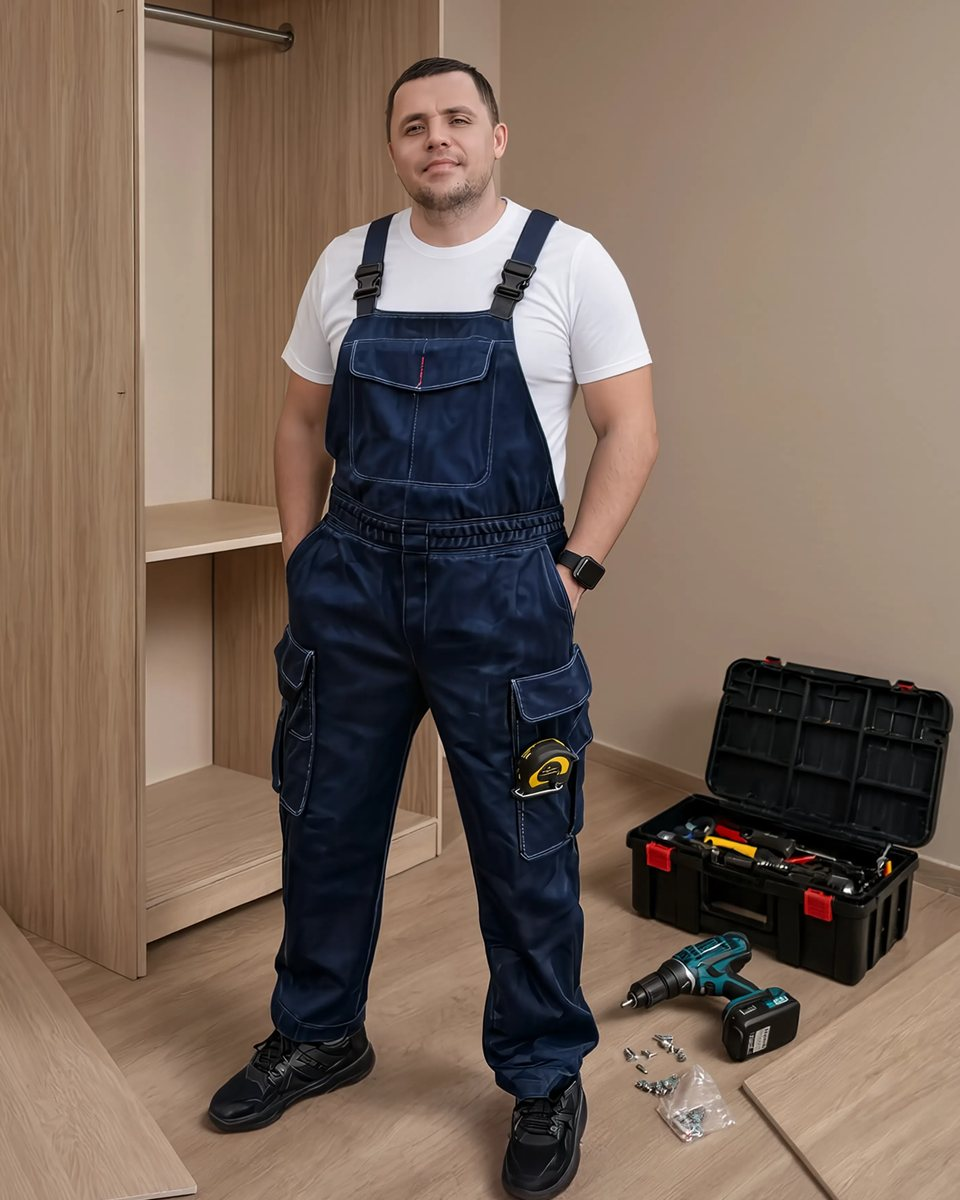
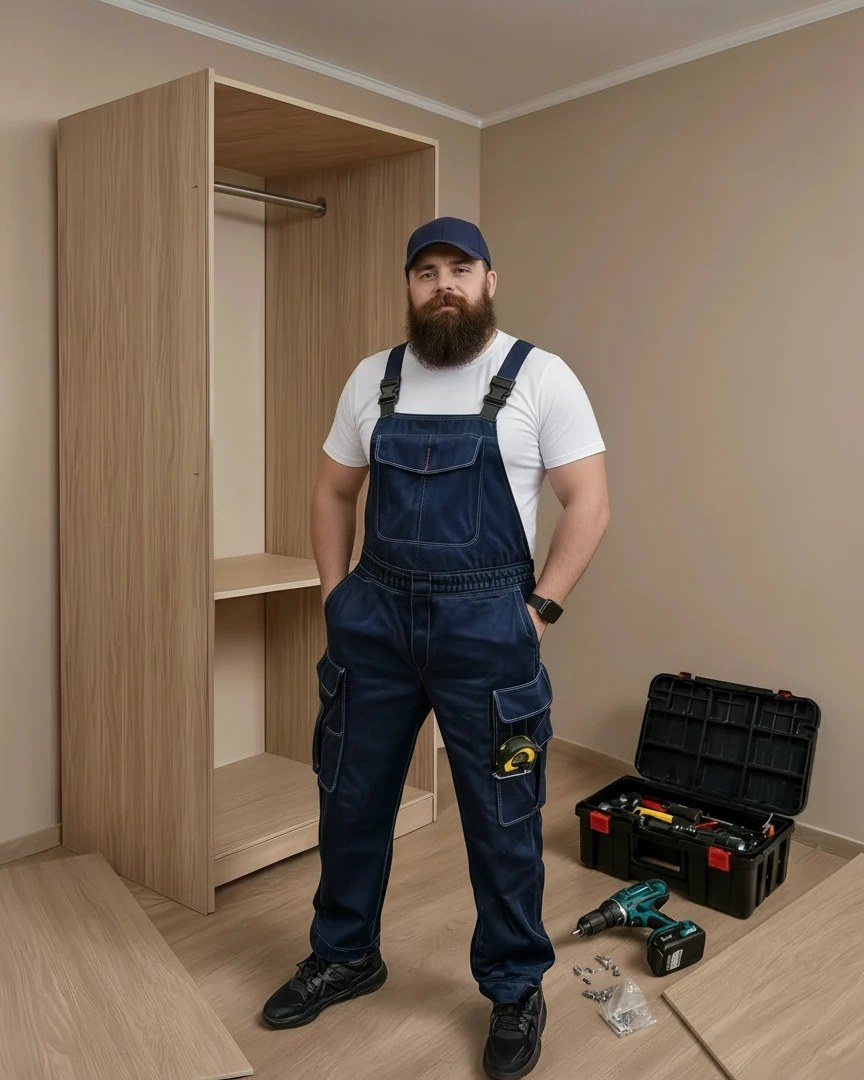
Replace hero photo with new one

diff --git a/index.html b/index.html
@@ -159,7 +159,7 @@
       </div>
       <div class="hero-visual">
         <div class="hero-photo-frame">
-          <img src="hero-photo.jpg" alt="Мастер на час — выезд с инструментом" class="hero-photo" width="960" height="1200">
+          <img src="hero-photo.jpg" alt="Мастер на час — выезд с инструментом" class="hero-photo" width="864" height="1080">
         </div>
         <div class="visual-badge">
           <span class="badge-dot"></span>
